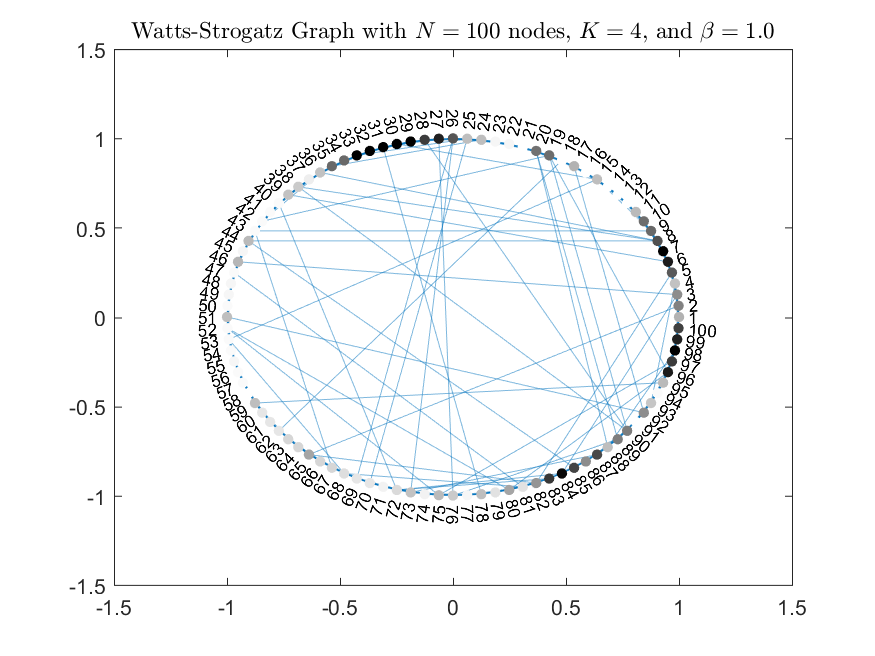
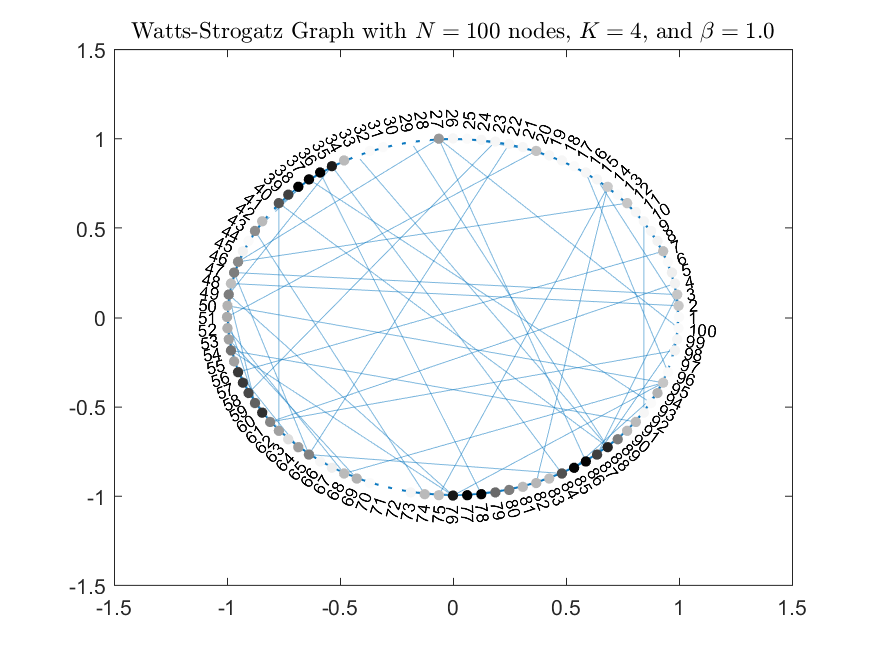
Add files via upload

Changed region(s): [[0.2469, 0.1829, 0.8023, 0.7622]]

diff --git a/Current trends in artificial intelligence/emergence.m b/Current trends in artificial intelligence/emergence.m
@@ -20,7 +20,6 @@ for count = 1:1
     
     
     % plot the circle figure
-    
     figure('Visible', 'off');
     plot(h,'NodeCData',deg,'Layout','circle');
     title('Watts-Strogatz Graph with $N = 100$ nodes, $K = 4$, and $\beta = 1.0$', ...
@@ -39,4 +38,74 @@ for count = 1:1
     figure('Visible', 'off');
     histo = histogram(deg);
     print(strcat('Histogram',int2str(count)),'-dpng');
+    
+    % add new nodes
+    newPop = N / 5;
+    randomIndices = randperm(N,newPop);
+    for i = 1:newPop
+        representations(randomIndices(i),:) = randi([0 10],1,k);
+    end
+    
+    % recalculate which representation the agents choose
+    for i = 1:N
+        rep = representations(i,:);
+        index = findLargestIndex(rep);
+        deg(i) = index;
+        
+        convictions(i) = max(rep) / sum(rep);
+    end
+    
+    % plot the new figure before simulation
+    figure('Visible', 'off');
+    plot(h,'NodeCData',deg,'Layout','circle');
+    title('Watts-Strogatz Graph with $N = 100$ nodes, $K = 4$, and $\beta = 1.0$', ...
+        'Interpreter','latex');
+    print(strcat('PreferencePlotPertubationBeforeSimulation',int2str(count)),'-dpng');
+    
+    % plot the new conviction graph before the simulation
+    figure('Visible', 'off');
+    colormap gray
+    plot(h,'NodeCData',convictions,'Layout','circle');
+    title('Watts-Strogatz Graph with $N = 100$ nodes, $K = 4$, and $\beta = 1.0$', ...
+        'Interpreter','latex');
+    print(strcat('ConvictionPlotPertubationBeforeSimulation',int2str(count)),'-dpng');
+    
+    % plot a new histogram showing which actions are more common than the others
+    figure('Visible', 'off');
+    histo = histogram(deg);
+    print(strcat('HistogramPertubationBeforeSimulation',int2str(count)),'-dpng');
+    
+    % repeat the simulation with the new 'students'
+    representations = simulation(h,N,k,100);
+    
+    % recalculate which representation each agent has again
+    for i = 1:N
+        rep = representations(i,:);
+        index = findLargestIndex(rep);
+        deg(i) = index;
+        
+        convictions(i) = max(rep) / sum(rep);
+    end
+    
+    % plot the new figure after simulation
+    figure('Visible', 'off');
+    plot(h,'NodeCData',deg,'Layout','circle');
+    title('Watts-Strogatz Graph with $N = 100$ nodes, $K = 4$, and $\beta = 1.0$', ...
+        'Interpreter','latex');
+    print(strcat('PreferencePlotPertubationAfterSimulation',int2str(count)),'-dpng');
+    
+    % plot the new conviction graph after the simulation
+    figure('Visible', 'off');
+    colormap gray
+    plot(h,'NodeCData',convictions,'Layout','circle');
+    title('Watts-Strogatz Graph with $N = 100$ nodes, $K = 4$, and $\beta = 1.0$', ...
+        'Interpreter','latex');
+    print(strcat('ConvictionPlotAfterBeforeSimulation',int2str(count)),'-dpng');
+    
+    % plot a new histogram showing which actions are more common than the
+    % others after the simulation
+    figure('Visible', 'off');
+    histo = histogram(deg);
+    print(strcat('HistogramPertubationAfterSimulation',int2str(count)),'-dpng');
+    
 end
